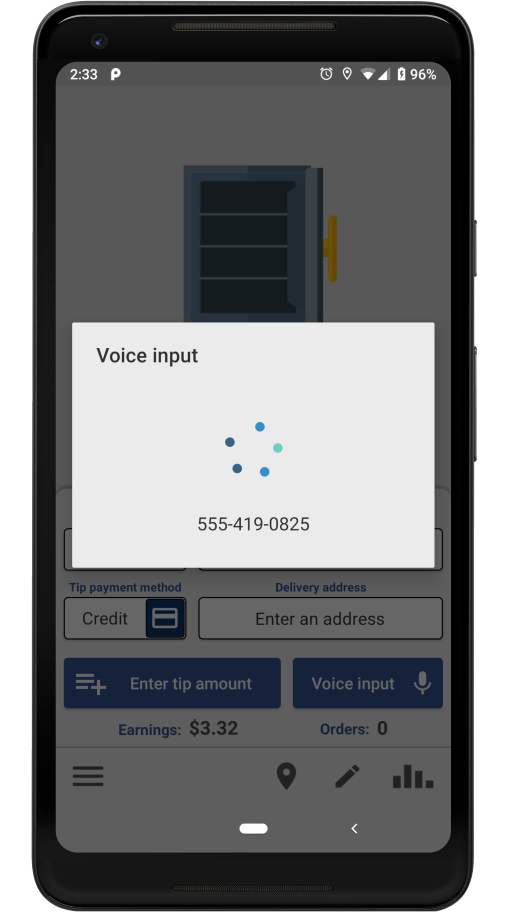
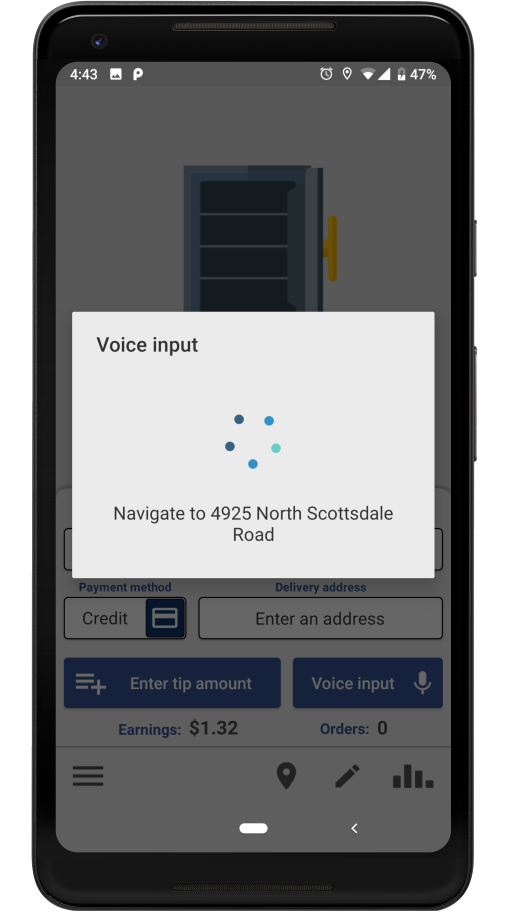
Modified voice-input-instructions.

diff --git a/voice-input-instructions.html b/voice-input-instructions.html
@@ -12,27 +12,31 @@
 <p>Voice input can be used to enter a variety of data, as shown below:</p>
 
 <img class="img-with-caption" src="img/voice-input-instructions/1.png"/>
-<p class="caption">To enter a tip amount, say the amount as a decimal number or as a price. For example, if the tip is
+<p class="caption">To enter a <u>tip amount</u>, say the amount as a decimal number or as a price. For example, if the tip is
     $5.24, you can say "five dollars and twenty-four cents or "five point two four".</p>
 
 <img class="img-with-caption" src="img/voice-input-instructions/2.png"/>
-<p class="caption">To enter a delivery address, simply say the first line of the address. For example, if the full
+<p class="caption">To enter a <u>delivery address</u>, simply say the first line of the address. For example, if the full
     address is 1600 Pennsylvania Ave, Washington, DC 20006, you can just say "1600 Pennsylvania Avenue". The app will
     then search for the most likely nearby address that matches what you said.</p>
 
 <img class="img-with-caption" src="img/voice-input-instructions/3.png"/>
-<p class="caption">To enter a phone number, say each of the numbers individually. For example, if the phone number is
+<p class="caption">To enter a <u>delivery address and automatically start navigation</u>, say "navigate to" followed by the address. For example, if the full
+    address is 1600 Pennsylvania Avenue, say "navigate to 1600 Pennsylvania Avenue".</p>
+
+<img class="img-with-caption" src="img/voice-input-instructions/4.png"/>
+<p class="caption">To enter a <u>phone number</u>, say each of the numbers individually. For example, if the phone number is
     (555) 498-0719, say "five five five four nine eight zero seven one nine".</p>
 
 <img class="img-with-caption" src="img/voice-input-instructions/5.png"/>
-<p class="caption">To enter an order price, say the phrase "price equals" followed by the amount. For example, if the
+<p class="caption">To enter an <u>order price</u>, say the phrase "price equals" followed by the amount. For example, if the
     order price is $16.70, say "price equals 16.7".</p>
 
-<img class="img-with-caption" src="img/voice-input-instructions/4.png"/>
-<p class="caption">To enter a prepaid tip amount, say the phrase "tip amount equals" followed by the amount. For
+<img class="img-with-caption" src="img/voice-input-instructions/6.png"/>
+<p class="caption">To enter a <u>prepaid tip amount</u>, say the phrase "tip amount equals" followed by the amount. For
     example, if the prepaid tip amount is $5.20, say "tip amount equals 5.2".</p>
 
-<img class="img-with-caption" src="img/voice-input-instructions/6.png"/>
+<img class="img-with-caption" src="img/voice-input-instructions/7.png"/>
 <p class="caption">For upcoming orders, each order gets its own 'Voice input' button (outlined in red above).</p>
 
 
